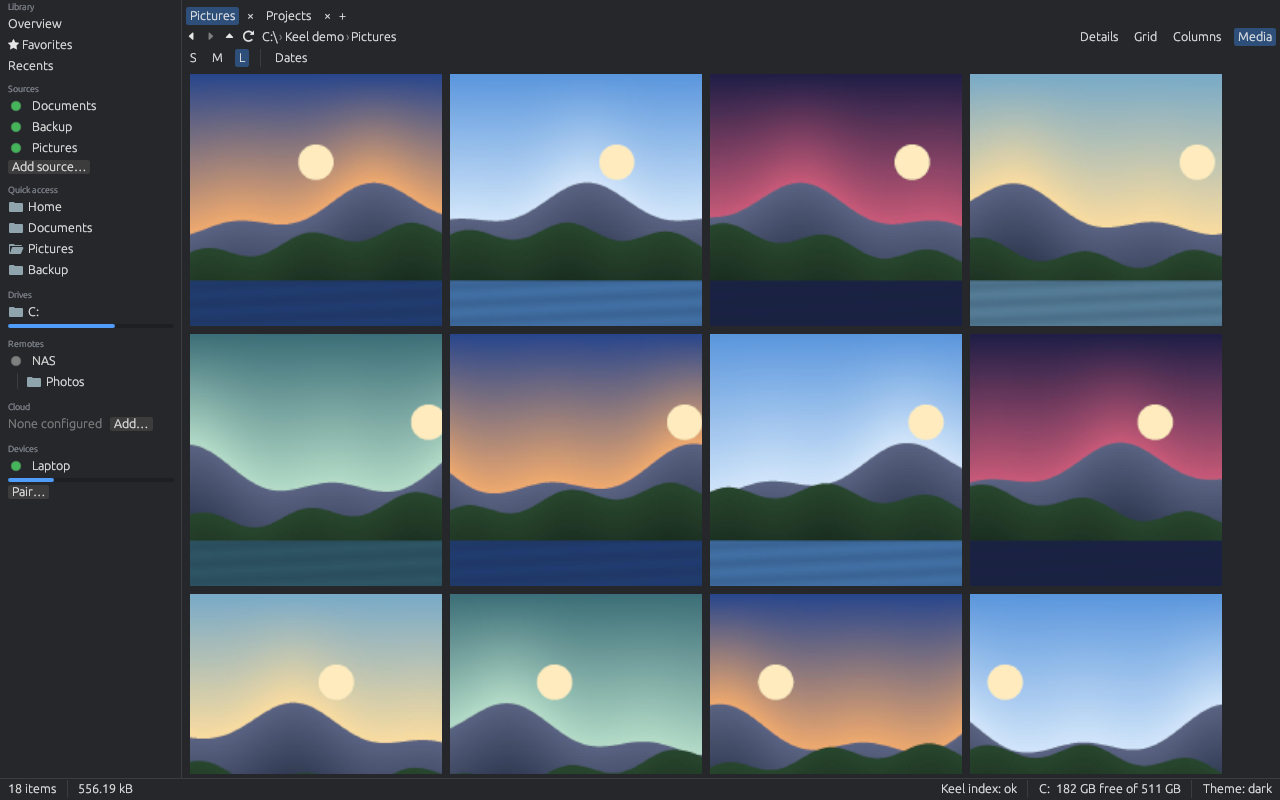
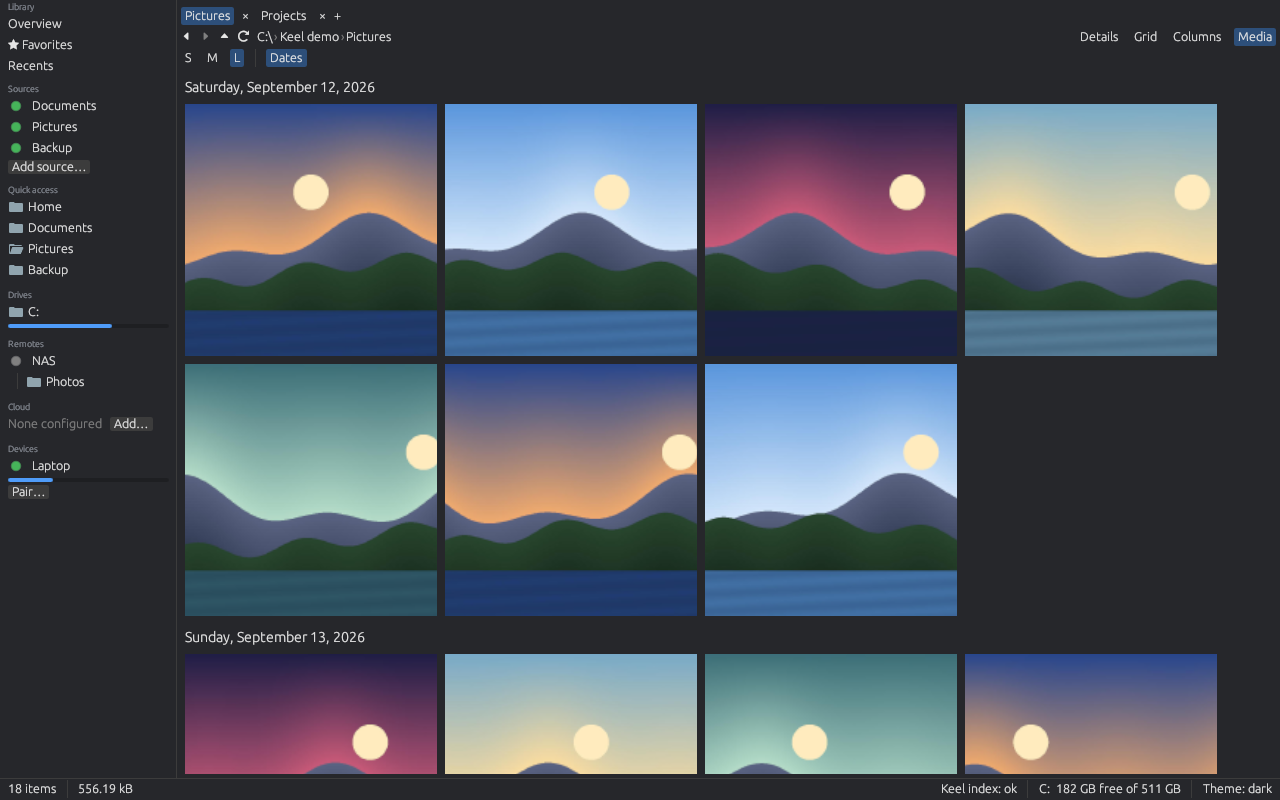
fix(media): date headers use seconds
Photos without a capture time fell back to the record's modified time in
nanoseconds where seconds were expected, so each got its own "Unknown date"
header. Both fallbacks (the date map worker and the grid layout) now go
through media::modified_day. Regression test with two fixture photos of one
day; the screenshot harness shows the media grid with Dates on again.

diff --git a/crates/keel-app/src/media_tests.rs b/crates/keel-app/src/media_tests.rs
@@ -497,3 +497,62 @@ fn retry_strip_drops_failed_strips_and_makes_it_again() {
     }
     assert_eq!(m.get(&viewer), Tex::Failed);
 }
+
+/// Found making the screenshots: a photo without a capture time fell back to its
+/// modified time in nanoseconds, so every photo got its own "Unknown date" header. Now
+/// it lands under the day it was modified, and photos of one day share one header.
+#[test]
+fn photos_without_exif_group_under_their_modified_day() {
+    let tmp = temp("mdays");
+    let ctx = egui::Context::default();
+    let mut m = Media::new(ctx.clone(), Arc::new(Router::new()));
+    m.set_store(Arc::new(
+        Sidecars::open(&tmp.join("store"), 1 << 30).unwrap(),
+    ));
+    let dir = VPath::local(&tmp);
+    // Wednesday, May 1, 2024 (unix day 19,844), 08:00 and 20:00 UTC.
+    let reqs: Vec<(String, Req)> = [8, 20]
+        .into_iter()
+        .map(|hour| {
+            let name = format!("{hour}.png");
+            let path = tmp.join(&name);
+            image::RgbImage::from_pixel(4, 4, image::Rgb([90, 90, 90]))
+                .save(&path)
+                .unwrap();
+            let t = std::time::UNIX_EPOCH + Duration::from_secs(19_844 * 86_400 + hour * 3600);
+            std::fs::File::options()
+                .write(true)
+                .open(&path)
+                .unwrap()
+                .set_modified(t)
+                .unwrap();
+            let mut e = crate::tab::test_entry(&dir, &name, Kind::File, 1);
+            e.modified = Some(std::fs::metadata(&path).unwrap().modified().unwrap());
+            let req = Req {
+                entry: e.clone(),
+                real: e.path.clone(),
+            };
+            (name, req)
+        })
+        .collect();
+    let until = Instant::now() + Duration::from_secs(20);
+    let days = loop {
+        m.upload(&ctx);
+        let days = m.days(&dir, 1, || reqs.clone());
+        if days.len() == 2 {
+            break days.clone();
+        }
+        assert!(Instant::now() < until, "no days");
+        std::thread::sleep(Duration::from_millis(20));
+    };
+    assert_eq!(days["8.png"], 19_844);
+    assert_eq!(days["20.png"], 19_844);
+    assert_eq!(day_label(days["8.png"]), "Wednesday, May 1, 2024");
+    let names = ["8.png", "20.png"];
+    let f = |i: usize| Some(days[names[i]]);
+    assert_eq!(
+        layout(2, 4, Some(&f)),
+        [Row::Header(Some(19_844)), Row::Tiles(0, 2)]
+    );
+    assert_eq!(modified_day(None), 0);
+}

diff --git a/crates/keel-app/src/media.rs b/crates/keel-app/src/media.rs
@@ -1164,7 +1164,7 @@ fn day_of(sh: &Shared, req: &Req) -> i64 {
             .and_then(|(s, (k, _))| s.meta(&k))
             .and_then(|m| m.taken_at)
     };
-    day(taken.unwrap_or_else(|| unix(req.entry.modified)))
+    taken.map_or_else(|| modified_day(req.entry.modified), day)
 }
 
 /// The 256 px thumbnail of a video tile (shown until its strip is there).
@@ -1175,6 +1175,12 @@ pub fn thumb_key(e: &Entry, tile_px: u32) -> TexKey {
 /// Unix seconds to unix days (UTC; EXIF times without an offset read as wall clock).
 pub fn day(secs: i64) -> i64 {
     secs.div_euclid(86_400)
+}
+
+/// The day of a modified time, the date headers' fallback when there is no capture time
+/// (`unix` is nanoseconds, `day` wants seconds).
+pub fn modified_day(t: Option<std::time::SystemTime>) -> i64 {
+    day(unix(t).div_euclid(1_000_000_000))
 }
 
 pub fn day_label(day: i64) -> String {

diff --git a/crates/keel-app/src/screenshots.rs b/crates/keel-app/src/screenshots.rs
@@ -574,14 +574,15 @@ fn run(root: &Path) -> Vec<&'static str> {
     }
     h.state_mut().state.preview.open = false;
 
-    // The media view of Pictures, one pane. (No date headers: files without a capture
-    // time fall back to their modified time in nanoseconds there, read as seconds.)
+    // The media view of Pictures, one pane, grouped by day (the fixture photos have no
+    // capture time: their modified days).
     {
         let s = &mut h.state_mut().state;
         s.run(0, Action::Navigate(VPath::local(&pics)));
         s.dual = false;
         s.panes[0].view = crate::pane::ViewMode::Media;
         s.media.tile = crate::media::TileSize::L;
+        s.media.dates = true;
     }
     assert!(wait(&mut h, 30, &listed), "pictures listed");
     let tiles = wait(&mut h, 90, &|s| s.media.len() >= 18);

diff --git a/crates/keel-app/src/view_media.rs b/crates/keel-app/src/view_media.rs
@@ -36,7 +36,7 @@ fn day_of(tab: &Tab, days: &std::collections::HashMap<String, i64>, i: usize) ->
     Some(
         days.get(&e.name)
             .copied()
-            .unwrap_or_else(|| media::day(media::unix(e.modified))),
+            .unwrap_or_else(|| media::modified_day(e.modified)),
     )
 }
 

diff --git a/docs/getting-started.md b/docs/getting-started.md
@@ -216,7 +216,7 @@ The library is an index of your **sources**: local folders and drives, SSH hosts
 
 **Protection and the drive inventory.** The Overview's **Protection** card counts files that are not checked yet, have one copy only, have every copy on the same disk or account, are not backed up, or changed since their last integrity check. The volume table lists every drive a source was seen on: mark a drive **Archived** (on a shelf), **Lost** or **Retired**, and tick **Backup** for your backup drives. Delete and move previews warn before you remove the last copy of a file. **Check integrity now** re-reads a sample of hashed files to catch bit rot. Details: [Protection](library.md#protection).
 
-**Media view.** Click **Media** in a pane's header to see a folder of photos and videos as tiles. S, M and L (or Ctrl+mouse wheel) change the tile size and **Dates** groups them by the day they were taken. Move the pointer across a video tile to scrub through it. Space or Enter opens the viewer: Left and Right move through the folder, the mouse wheel or `+` and `-` zoom, `0` fits, `1` shows 100 %, `I` shows the photo's information, `F` toggles Favorite and Esc closes. Videos play with sound in the viewer (Space plays and pauses, Up and Down change the volume, `M` mutes, `L` loops) when `ffmpeg` is installed. Details: [Media view](library.md#media-view).
+**Media view.** Click **Media** in a pane's header to see a folder of photos and videos as tiles. S, M and L (or Ctrl+mouse wheel) change the tile size and **Dates** groups them by the day they were taken (the day they were last modified when a file has no capture date). Move the pointer across a video tile to scrub through it. Space or Enter opens the viewer: Left and Right move through the folder, the mouse wheel or `+` and `-` zoom, `0` fits, `1` shows 100 %, `I` shows the photo's information, `F` toggles Favorite and Esc closes. Videos play with sound in the viewer (Space plays and pauses, Up and Down change the volume, `M` mutes, `L` loops) when `ffmpeg` is installed. Details: [Media view](library.md#media-view).
 
 ![The media view of a photo folder with large tiles](screenshots/media-grid.png)
 

diff --git a/CHANGELOG.md b/CHANGELOG.md
@@ -8,6 +8,10 @@ All notable changes to Keel are listed here. The format follows [Keep a Changelo
 
 - Getting-started guide and screenshots; README reorganised.
 
+### Fixed
+
+- Media view: with **Dates** on, a photo or video without a capture date was put under its own "Unknown date" heading instead of the day it was last modified, so a folder of such files showed one heading per row. They now share one heading per day. Found while making the screenshots.
+
 ## [0.14.0] - 2026-10-10
 
 ### Added
